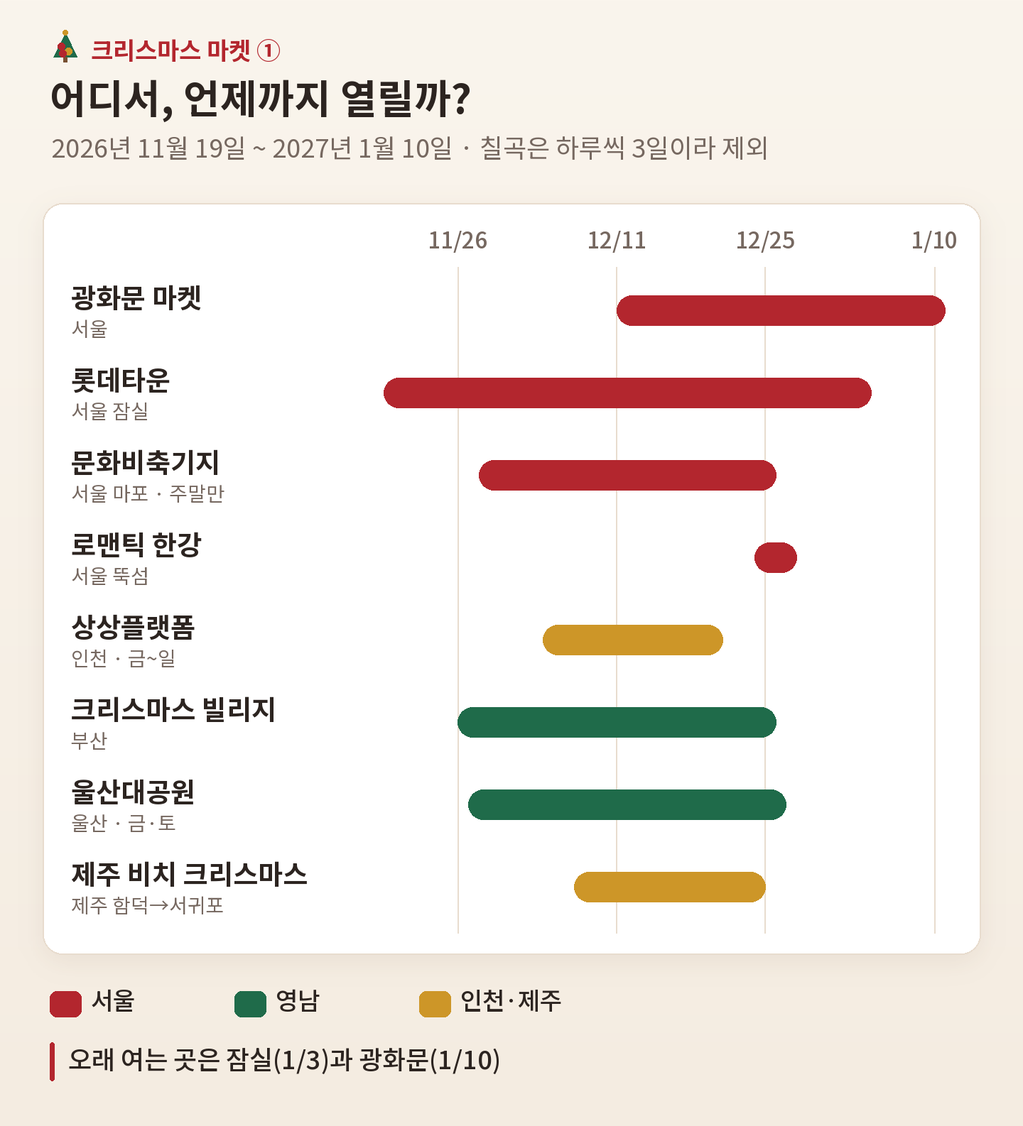
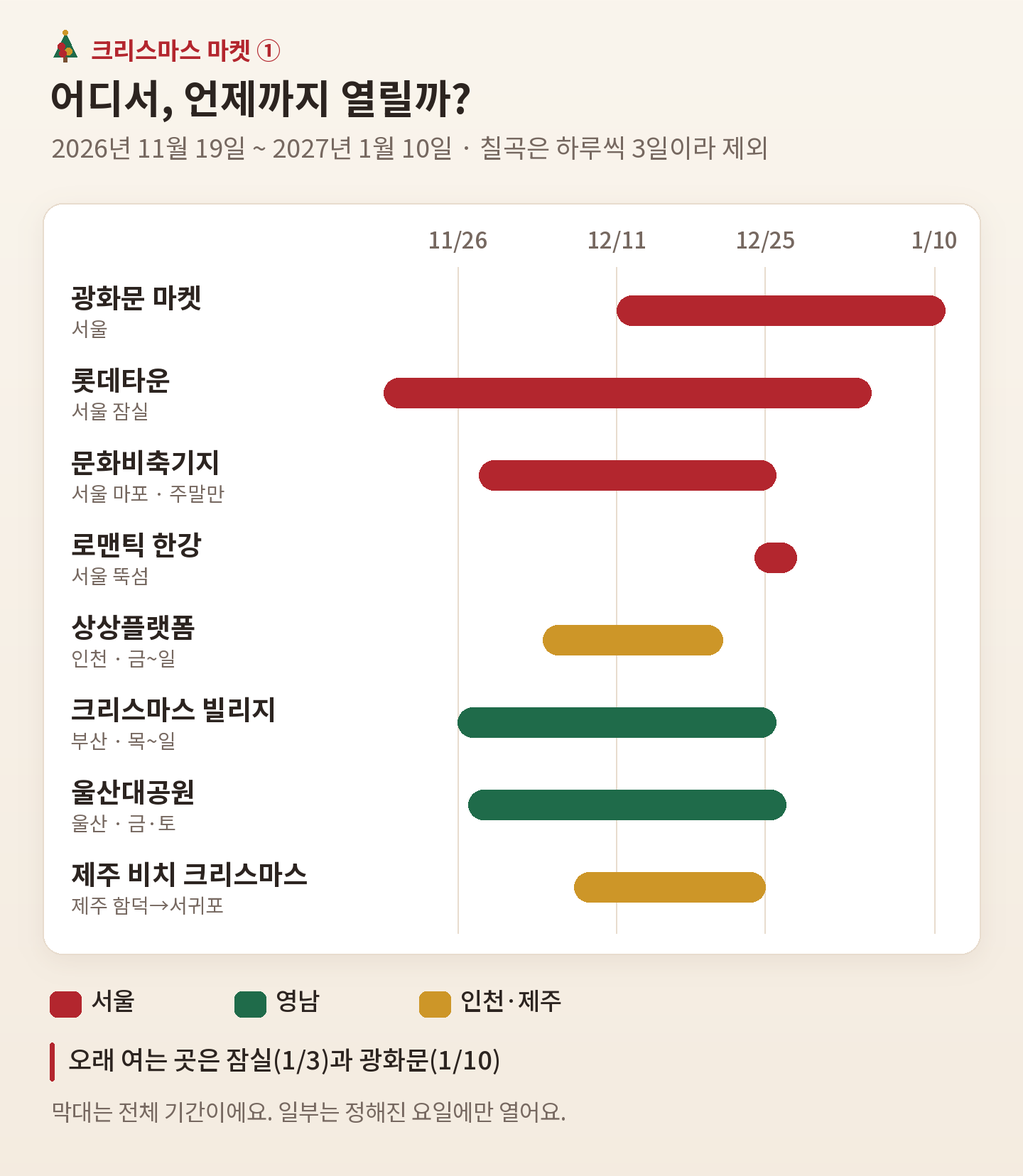
네이버 뮤지컬 좌석 예매 글 작성, 크리스마스 마켓 글 검수 반영
- 뮤지컬: 좌석 등급·예매 순서·취소 수수료·문화비 소득공제·공연법 암표 금지, 이미지 4장(타이틀 요청 중)
- 크리스마스 마켓: 인천 입장료(공식), 부산 목~일·12.21~25, 울산 18~22시, 잠실 무료 예약, 그림 02·04 수정

Changed region(s): [[0.0312, 0.2472, 0.9688, 0.9578], [0.0312, 0.0309, 0.9375, 0.2163], [0.375, 0.2472, 0.9375, 0.5252]]

diff --git a/문서/네이버-코딩가이드/20261126_뮤지컬-좌석-예매/index.html b/문서/네이버-코딩가이드/20261126_뮤지컬-좌석-예매/index.html
@@ -1,0 +1,100 @@
+<meta charset="utf-8">
+<!--
+[발행 메모]
+블로그: 네이버 코딩가이드
+카테고리: 여행·취미·문화
+글 제목: 연말 뮤지컬 좌석 고르는 법, 예매부터 취소 수수료까지
+태그: #뮤지컬예매 #뮤지컬좌석 #공연예매 #티켓팅 #취소표 #취소수수료 #연말공연 #뮤지컬 #문화비소득공제 #암표
+검색 설명: 연말 뮤지컬과 공연을 예매할 때 알아 둘 것을 정리했습니다. 대극장 좌석 등급(VIP·R·S·A)과 층별 차이, 선예매와 일반 예매, 취소표가 나오는 때, 관람일이 가까울수록 커지는 취소 수수료, 문화비 소득공제와 암표 처벌까지 담았습니다.
+글자 수: 본문 공백 포함 1,777자 / 공백 제외 1,363자
+계기: 겨울 대극장 대작 공연 기사(11.26)와 다음 공연 분야 검색어 상위(연말 콘서트·뮤지컬). 사용자가 추천 5개 중 5번을 고름.
+
+[이미지 순서]
+디자인: 어두운 공연장 그라데이션 바탕(#1c1822→#281e2c) · 흰 글자 · 와인(#b03450)·장미(#dc788c)·금빛 조명(#e8be60)·하늘(#82aad2) · 어두운 보라 카드, 머리에 금빛 가면 아이콘 + '공연 예매 ①~③', 아래 한 줄은 금빛 세로 띠 메모. 형식: 세로 좌석 배치 개념도, 가로 다섯 단계 카드, 가로 수수료 막대. 스크립트 scratchpad/tgs/musical.py.
+- 01-타이틀.png (ChatGPT, 1080×1080) — 표지
+- 02-대극장-좌석-등급.png (AI, 세로 1080×1538) — 층·위치에 따라 등급이 나뉘는 흔한 배치(개념도)
+- 03-예매가-열리는-순서.png (AI, 가로 1440×894) — 오픈 공지부터 취소표까지 다섯 단계
+- 04-취소-수수료.png (AI, 가로 1440×1182) — 관람일이 가까울수록 커지는 취소 수수료(한 예매처 예)
+- 05-함께-보면-좋은-글.png (AI 배너, 1600×234)
+
+[근거] (2026.11.26 확인)
+- 공연법(국가법령정보센터 현행 원문): 제4조의2 입장권등 부정구매(보안조치를 우회하는 등 공정한 구입 과정을 우회·방해해 재판매 목적으로 구매)·부정판매(판매자 동의 없이 상습 또는 영업으로 산 값보다 비싸게 판매·알선) 금지(전문개정 2026.2.27), 제41조 1년 이하 징역 또는 1천만 원 이하 벌금, 제37조의2 신고 포상금(예산 범위, 대통령령).
+- 취소 수수료: 예스24 티켓 공연 상품 페이지의 일반 취소 규정(예매 후 7일 이내 없음 / 예매 후 8일~관람일 10일 전 장당 4,000원(티켓 금액의 10% 이내) / 관람일 9~7일 전 10% / 6~3일 전 20% / 2일 전~취소 마감 30%, 예매 후 7일 이내라도 관람일 10일 이내면 해당 수수료, 예매수수료는 예매 당일 밤 12시 전 취소 때만 환불). '상품에 따라 다를 수 있다'는 단서도 원문에 있음 — 본문에 '한 예매처의 예'로 씀.
+- 문화비 소득공제: 조세특례제한법 제126조의2(앞선 카드 소득공제 글에서 원문 확인) — 총급여 7천만 원 이하, 도서·공연 등 문화비 공제율 30%. 상품마다 대상이 아닐 수 있음(예스24 상품 페이지에 '문화비 소득공제 제외 상품' 표기가 있는 예).
+- 겨울 대작 공연(오페라의 유령 40주년 등)은 11.26 기사 기준 '~다고 합니다'. 특정 공연장 좌석 수·등급 배치는 공연마다 달라 쓰지 않고, 좌석 등급의 일반적인 경향·취소표가 나오는 때·선예매는 일반 지식으로 '보통·알려져 있다'로 씀.
+- 함께 보면 좋은 글: 2026 서울윈터페스티벌(네이버 코딩가이드 · 여행·취미·문화 · 2026.11.26), 연말정산 미리보기 12월 18일 전에 볼 세 가지(네이버 코딩가이드 · 경제·투자 · 2026.11.24).
+-->
+
+<p style="font-size:16px;">티켓 오픈 시각, 새로고침, 그리고 '이미 선택된 좌석입니다'.<br>연말 공연 예매는 좌석보다 순서를 먼저 알아야 합니다.</p>
+
+<p style="font-size:16px;color:#e60000;font-weight:bold;">[[ 이미지: 타이틀 (01-타이틀.png) ]]</p>
+
+<p>&nbsp;</p>
+<h3 style="font-size:18px;margin:24px 0 8px;color:#8a1f35;">♪ 한 줄로 말하면</h3>
+<p style="font-size:16px;">• 비싼 등급이 늘 잘 보이는 자리는 아닙니다. 공연마다 등급 배치가 다릅니다.</p>
+<p style="font-size:16px;">• 놓친 좌석은 취소표로 다시 나올 수 있습니다.</p>
+<p style="font-size:16px;">• 관람일이 10일 안으로 들어오면 취소 수수료가 커집니다.</p>
+<p>&nbsp;</p>
+<table style="width:100%;border-collapse:collapse;"><tr><td style="background:#f4eef0;padding:12px 16px;font-size:15px;color:#555555;">좌석 등급과 취소 규정은 공연과 예매처마다 다릅니다.<br>예매 전에 그 공연의 상세 안내와 취소 규정을 꼭 확인하세요.</td></tr></table>
+
+<p>&nbsp;</p>
+<hr style="border:none;border-top:1px solid #cfcfcf;margin:8px 0;">
+<h2 style="font-size:24px;margin:40px 0 12px;">좌석 등급, 비싸면 더 잘 보일까?</h2>
+<p style="font-size:16px;">대극장 뮤지컬은 보통 VIP·R·S·A석으로 나뉩니다.<br>1층 가운데가 VIP, 위층과 양쪽 끝으로 갈수록 등급이 내려가는 구성이 많습니다.</p>
+
+<p style="font-size:16px;color:#e60000;font-weight:bold;">[[ 이미지: 대극장 좌석 등급 (02-대극장-좌석-등급.png) ]]</p>
+
+<p style="font-size:16px;">다만 가격이 곧 보기 좋은 자리는 아닙니다.<br>1층 맨 앞줄은 무대를 올려다봐야 해서 오히려 불편하다는 사람도 많습니다.</p>
+<p style="font-size:16px;">2층 앞쪽은 무대 전체 동선이 한눈에 들어와 군무가 많은 작품에서 좋다는 평이 있습니다.<br>배우 표정을 가까이 보고 싶다면 1층, 무대 그림 전체를 보고 싶다면 2층 앞쪽입니다.</p>
+
+<p>&nbsp;</p>
+<h3 style="font-size:18px;margin:24px 0 8px;">♪ '시야 제한석'은 무엇일까?</h3>
+<p style="font-size:16px;">기둥이나 난간, 무대 장치 때문에 무대 일부가 가려지는 자리입니다.<br>값이 싼 대신 어떤 부분이 안 보이는지 예매 화면에 표시되는 경우가 많습니다.<br>안내 문구를 읽고 고르면 가성비 좋은 선택이 될 수 있습니다.</p>
+
+<p>&nbsp;</p>
+<hr style="border:none;border-top:1px solid #cfcfcf;margin:8px 0;">
+<h2 style="font-size:24px;margin:40px 0 12px;">예매는 어떤 순서로 열릴까?</h2>
+
+<p style="font-size:16px;color:#e60000;font-weight:bold;">[[ 이미지: 예매가 열리는 순서 (03-예매가-열리는-순서.png) ]]</p>
+
+<p style="font-size:16px;">인기 공연은 보통 일반 예매 전에 '선예매'가 먼저 열립니다.<br>예매처 유료 회원이나 제휴 카드, 공연 팬클럽에 먼저 기회를 주는 방식입니다.</p>
+<p style="font-size:16px;">일반 예매는 회차를 나눠 여는 경우가 많습니다.<br>오픈 공지에 어느 날짜 공연이 열리는지 적혀 있으니 그날만 노리면 됩니다.</p>
+
+<p>&nbsp;</p>
+<h3 style="font-size:18px;margin:24px 0 8px;">♪ 놓쳤다면 취소표를 노리자</h3>
+<p style="font-size:16px;">무통장 입금으로 예매한 사람이 기한 안에 돈을 넣지 않으면 그 좌석이 다시 풀립니다.<br>그래서 입금 마감 시각 바로 뒤에 취소표가 나온다고 알려져 있습니다.</p>
+<p style="font-size:16px;">관람일 10일 전, 취소 수수료가 커지기 전에 표를 내놓는 사람도 있습니다.<br>그 무렵 예매 화면을 한 번 더 확인해 보세요.</p>
+
+<p>&nbsp;</p>
+<hr style="border:none;border-top:1px solid #cfcfcf;margin:8px 0;">
+<h2 style="font-size:24px;margin:40px 0 12px;">취소하면 얼마를 떼일까?</h2>
+<p style="font-size:16px;">한 예매처의 일반 취소 규정을 예로 들면 다음과 같습니다.</p>
+
+<p style="font-size:16px;color:#e60000;font-weight:bold;">[[ 이미지: 취소 수수료 (04-취소-수수료.png) ]]</p>
+
+<p style="font-size:16px;">예매 후 7일 안이라도 관람일이 10일 안으로 남았다면 수수료가 붙습니다.<br>예매할 때 낸 예매 수수료는 예매 당일 밤 12시 전에 취소해야 돌려받습니다.</p>
+<p style="font-size:16px;">공연마다 따로 정한 규정이 있으면 그것이 먼저입니다.<br>결제 전에 상품 페이지의 취소 안내를 한 번 읽어 두세요.</p>
+
+<p>&nbsp;</p>
+<hr style="border:none;border-top:1px solid #cfcfcf;margin:8px 0;">
+<h2 style="font-size:24px;margin:40px 0 12px;">알아 두면 돈이 되는 두 가지</h2>
+
+<h3 style="font-size:18px;margin:24px 0 8px;">♪ 공연 티켓도 소득공제가 된다</h3>
+<p style="font-size:16px;">총급여 7천만 원 이하 직장인은 공연 티켓 값을 문화비 소득공제로 받을 수 있습니다.<br>공제율은 30%로, 신용카드(15%)보다 높습니다.</p>
+<p style="font-size:16px;">다만 모든 상품이 대상은 아닙니다.<br>상품 페이지에 '문화비 소득공제 제외'라고 적힌 경우도 있으니 확인하세요.</p>
+
+<p>&nbsp;</p>
+<h3 style="font-size:18px;margin:24px 0 8px;">♪ 웃돈 붙은 표는 사지 않는다</h3>
+<p style="font-size:16px;">공연법은 매크로처럼 정상적인 구매 과정을 우회해 되팔 목적으로 표를 사는 것을 금지합니다.<br>산 값보다 비싸게 상습적으로 되파는 것도 금지합니다.</p>
+<p style="font-size:16px;">어기면 1년 이하 징역이나 1천만 원 이하 벌금을 받을 수 있습니다.<br>웃돈 거래는 사기 피해로 이어지기도 하니, 공식 예매처와 취소표를 이용하세요.</p>
+
+<p>&nbsp;</p>
+<hr style="border:none;border-top:1px solid #cfcfcf;margin:8px 0;">
+<h2 style="font-size:24px;margin:40px 0 12px;">티켓 오픈 전날 밤에 해 둘 일</h2>
+<p style="font-size:16px;">예매처 로그인과 결제 수단을 미리 저장해 둡니다.<br>원하는 날짜를 두세 개, 등급을 두 개쯤 정해 두면 고르는 시간이 줄어듭니다.</p>
+<p style="font-size:16px;">놓치더라도 끝이 아닙니다.<br>입금 마감 뒤와 관람 10일 전, 두 번의 기회가 더 있습니다.</p>
+
+<p style="font-size:16px;color:#e60000;font-weight:bold;">[[ 이미지: 함께 보면 좋은 글 (05-함께-보면-좋은-글.png) ]]</p>
+
+<p style="font-size:16px;">2026 서울윈터페스티벌, 장소별로 언제 무엇을 할까? (네이버 코딩가이드 · 여행·취미·문화 · 2026.11.26 작성 · 링크 자리)</p>
+<p style="font-size:16px;">연말정산 미리보기, 12월 18일 전에 볼 세 가지 (네이버 코딩가이드 · 경제·투자 · 2026.11.24 작성 · 링크 자리)</p>

diff --git a/문서/네이버-코딩가이드/20261126_전국-크리스마스마켓/index.html b/문서/네이버-코딩가이드/20261126_전국-크리스마스마켓/index.html
@@ -6,7 +6,7 @@
 글 제목: 전국 크리스마스 마켓 모음, 12월 주말 어디로 갈까?
 태그: #크리스마스마켓 #크리스마스마켓2026 #롯데타운크리스마스마켓 #광화문마켓 #크리스마스빌리지부산 #울산크리스마스마켓 #제주비치크리스마스 #12월가볼만한곳 #크리스마스데이트 #아이와가볼만한곳
 검색 설명: 2026년 12월 전국 크리스마스 마켓을 모았습니다. 서울 광화문 마켓·잠실 롯데타운·문화비축기지·뚝섬, 인천 상상플랫폼, 부산 크리스마스 빌리지, 울산대공원, 칠곡, 제주 함덕·서귀포까지 기간과 운영 요일, 입장료·예약 방식을 정리하고 12월 주말별로 갈 수 있는 곳을 표로 묶었습니다.
-글자 수: 본문 공백 포함 2,330자 / 공백 제외 1,850자
+글자 수: 본문 공백 포함 2,581자 / 공백 제외 2,058자
 계기: 사용자가 11.26 '요즘 관심 많을 이벤트·축제' 제안 중 3번 주제를 골라 요청.
 
 [이미지 순서]
@@ -26,6 +26,7 @@
 - 울산 크리스마스 마켓: 울산대공원 정문 풍차 일원, 11.27~12.26 금·토 운영(울산MBC), 크리스마스 주간 운영일 늘림(트래비), 울산문화관광재단, 부스·푸드트럭 48개 — 기사 3건. 시간·입장료 미확인.
 - 럭키칠곡 크리스마스 마켓: 왜관역 광장 일대, 마켓 12.5·25·26, 12.5 오후 6시 점등 — 기사 1건.
 - 2026 제주 비치 크리스마스: 함덕해수욕장 12.7~16(12:00~20:00), 서귀포 자구리문화예술공원 12.17~24(14:00~21:00) — 기사 3건(시간은 1~2건). 입장료 미확인.
+- 외부 검수(11.26) 대조 결과: 반영 — 인천 입장료(공식 누리집 ohslowmarket.com/tickets: 일반 10,000원, 얼리버드 5,000원 11.2~30, 초등 이하 무료, 1일 자유입장권, 11:00~19:00, 회차 12.4~6·11~13·18~20), 부산 운영일 매주 목~일 + 12.21~25(문화일보 11.25, 예스24의 '평일'은 목·금), 울산 금·토 18~22시·12.23~26 수~토(울산시 보도자료 기사·경향신문), 잠실 일반 입장권은 무료 사전 예약 방식(비즈워치·미디어펜·브릿지경제), 그림 02에 '막대는 전체 기간' 문구, 그림 04 재분류(입장료 있음: 부산·인천 / 무료 예약+유료 빠른 입장: 잠실 / 안내 못 찾음: 광화문·마포·뚝섬·울산·칠곡·제주). 반영 안 함 — 칠곡 12.24 추가(찾은 자료는 12.5·25·26뿐), 광화문 '무료'(공식 문구 없음), 뚝섬 14~21시·한강플플(2025년 정보), '총 21일'이라는 표현(공식 문구 없음, 계산상은 21일).
 - 쓰지 않은 것: 성북 유러피언 크리스마스 마켓(2026 일정 기사 없음), 오산(11월에 끝남·이름이 다름), 대구·경주 크리스마스 페어(박람회 성격, 현장 유료). 백화점 실내 마켓은 날짜 미확인이라 뺌.
 - 요일은 직접 계산(2026.12.5 토, 12.12 토, 12.19 토, 12.24 목, 12.25 금, 12.26 토).
 - 함께 보면 좋은 글: 2026 서울윈터페스티벌 장소별 정리(네이버 코딩가이드 · 여행·취미·문화 · 2026.11.26), 성심당 매장별 영업시간(네이버 코딩가이드 · 여행·취미·문화 · 2026.11.25).
@@ -38,7 +39,7 @@
 <p>&nbsp;</p>
 <h3 style="font-size:18px;margin:24px 0 8px;color:#b3262e;">☆ 한 줄로 말하면</h3>
 <p style="font-size:16px;">• 가장 오래 여는 곳은 잠실 롯데타운(1월 3일까지)과 광화문 마켓(1월 10일까지)입니다.</p>
-<p style="font-size:16px;">• 부산 크리스마스 빌리지는 올해부터 유료 입장이고 예매가 필요합니다.</p>
+<p style="font-size:16px;">• 부산 크리스마스 빌리지와 인천 빈티지 마켓은 입장료가 있습니다.</p>
 <p style="font-size:16px;">• 주말에만 여는 곳이 많아 날짜부터 맞춰 보는 것이 먼저입니다.</p>
 <p>&nbsp;</p>
 <table style="width:100%;border-collapse:collapse;"><tr><td style="background:#f6efe6;padding:12px 16px;font-size:15px;color:#555555;">운영 시간과 입장 방식은 바뀔 수 있습니다.<br>가기 전에 각 행사의 공식 안내나 예매 화면을 한 번 더 확인하세요.</td></tr></table>
@@ -58,7 +59,7 @@
 <p>&nbsp;</p>
 <h3 style="font-size:18px;margin:24px 0 8px;">☆ 서울 잠실 롯데타운 크리스마스 마켓</h3>
 <p style="font-size:16px;">롯데월드타워 앞 월드파크 잔디광장에서 11월 19일부터 1월 3일까지 열립니다.<br>매일 오전 11시 30분부터 밤 10시까지라고 합니다.</p>
-<p style="font-size:16px;">19세기 영국 겨울 거리를 옮겨 놓은 구성으로, 큰 시계탑과 40여 개 상점, 2층 회전목마가 있다고 합니다.<br>일반 입장은 무료이고, 줄을 서지 않는 유료 '패스트패스'가 따로 있습니다.</p>
+<p style="font-size:16px;">19세기 영국 겨울 거리를 옮겨 놓은 구성으로, 큰 시계탑과 40여 개 상점, 2층 회전목마가 있다고 합니다.<br>일반 입장권은 무료지만 미리 예약하는 방식이라고 하고, 줄을 서지 않는 유료 '패스트패스'가 따로 있습니다.</p>
 
 <p>&nbsp;</p>
 <h3 style="font-size:18px;margin:24px 0 8px;">☆ 서울 문화비축기지 옥토버페스트 크리스마스 마켓</h3>
@@ -70,22 +71,24 @@
 
 <p>&nbsp;</p>
 <h3 style="font-size:18px;margin:24px 0 8px;">☆ 인천 상상플랫폼 빈티지 크리스마스 마켓</h3>
-<p style="font-size:16px;">인천 내항의 옛 곡물창고를 고친 상상플랫폼에서 12월 4일부터 20일까지 금~일요일에 열린다고 합니다.<br>빈티지 옷과 소품, 트리 장식 만들기, 재즈 공연이 있다고 합니다.</p>
+<p style="font-size:16px;">인천역 앞 상상플랫폼에서 12월 4~6일, 11~13일, 18~20일 금·토·일요일에 열립니다.<br>오전 11시부터 오후 7시까지이고, 빈티지 소품과 옷, 트리 장식 만들기, 라이브 공연이 있습니다.</p>
+<p style="font-size:16px;">공식 안내로는 입장료가 1인 10,000원이고, 11월 30일까지 얼리버드로 사면 5,000원입니다.<br>초등학생 이하는 무료이고, 입장권은 운영일 가운데 하루를 골라 쓰는 방식입니다.</p>
 
 <p>&nbsp;</p>
 <h3 style="font-size:18px;margin:24px 0 8px;">☆ 부산 크리스마스 빌리지</h3>
-<p style="font-size:16px;">해운대 영화의전당 야외광장에서 11월 26일부터 12월 25일까지 열립니다.<br>지난해 약 45만 명이 찾았는데, 올해부터 날짜·시간대를 골라 예매하는 유료 입장으로 바뀌었다고 합니다.</p>
+<p style="font-size:16px;">해운대 영화의전당 야외광장에서 11월 26일부터 12월 25일까지 열립니다.<br>매일 여는 것은 아니고, 매주 목~일요일과 12월 21~25일에 연다고 합니다.</p>
+<p style="font-size:16px;">지난해 약 45만 명이 찾았는데, 올해부터 유료 입장으로 바뀌었다고 합니다.</p>
 <p style="font-size:16px;">예스24 판매 화면 기준 입장료는 아래와 같습니다.</p>
 <p style="font-size:16px;">• 평일(오후 4~10시) 5,900원</p>
 <p style="font-size:16px;">• 주말 주간(오전 11시~밤 10시) 5,900원</p>
 <p style="font-size:16px;">• 주말 야간(오후 4~10시) 7,900원</p>
 <p style="font-size:16px;">• 크리스마스 시즌(오전 11시~밤 10시) 14,900원</p>
 <p>&nbsp;</p>
-<p style="font-size:16px;">모바일 티켓이고, 판매는 가는 날 하루 전 밤 11시 59분에 마감됩니다.<br>문을 여는 요일은 예매 화면에서 고를 수 있는 날짜로 확인하세요.</p>
+<p style="font-size:16px;">여기서 평일은 목·금요일입니다.<br>모바일 티켓이고, 판매는 가는 날 하루 전 밤 11시 59분에 마감됩니다.</p>
 
 <p>&nbsp;</p>
 <h3 style="font-size:18px;margin:24px 0 8px;">☆ 울산·칠곡 크리스마스 마켓</h3>
-<p style="font-size:16px;">울산대공원 정문 풍차 일대에서는 11월 27일부터 12월 26일까지 금·토요일에 열린다고 합니다.<br>크리스마스 주간에는 여는 날을 늘린다고 합니다.</p>
+<p style="font-size:16px;">울산대공원 정문 풍차 일대에서는 11월 27일부터 12월 26일까지 매주 금·토요일 오후 6~10시에 열린다고 합니다.<br>크리스마스 주간에는 12월 23~26일(수~토)로 여는 날을 늘린다고 합니다.</p>
 <p style="font-size:16px;">경북 칠곡 왜관역 광장 일대에서는 12월 5일, 25일, 26일에 마켓이 선다고 합니다.<br>5일 저녁 6시에는 트리 점등식이 있다고 합니다.</p>
 
 <p>&nbsp;</p>
@@ -108,7 +111,8 @@
 
 <p style="font-size:16px;color:#e60000;font-weight:bold;">[[ 이미지: 입장 방식 (04-입장-방식.png) ]]</p>
 
-<p style="font-size:16px;">미리 예매해야 하는 곳은 부산 크리스마스 빌리지입니다.<br>잠실은 무료로 들어갈 수 있지만, 주말 저녁에는 줄이 길 수 있습니다.</p>
+<p style="font-size:16px;">입장료가 있는 곳은 부산 크리스마스 빌리지와 인천 빈티지 마켓입니다.<br>인천은 11월 30일까지 사면 반값이라 일정이 정해졌다면 미리 사 두는 편이 낫습니다.</p>
+<p style="font-size:16px;">잠실은 일반 입장권이 무료지만 미리 예약하는 방식이라고 합니다.<br>예약이 일찍 차는 편이라 주말에 갈 생각이면 서두르세요.</p>
 <p style="font-size:16px;">나머지는 입장료 안내를 따로 찾지 못했습니다.<br>마켓 안에서 사는 음식과 소품 값은 어디든 따로 듭니다.</p>
 
 <p>&nbsp;</p>

diff --git a/AGENTS.md b/AGENTS.md
@@ -263,9 +263,13 @@
 - 히스토리 가이드 후보(2026-11-15 제안, 4번 수능의 역사는 작성함): 한지 유네스코 등재(최종 결정 11.30~12.5 정부간위원회) / 김장 문화의 역사(김장철) / 단종과 영월 청령포('왕과 사는 남자' 흥행) / 순국선열의 날.
 
 ## 진행 상황 (2026-11-26 기준)
+- 2026-11-26: `문서/네이버-코딩가이드/20261126_뮤지컬-좌석-예매/index.html` 작성("연말 뮤지컬 좌석 고르는 법, 예매부터 취소 수수료까지", 카테고리 여행·취미·문화). 추천 5개 중 5번.
+  - 근거: 공연법 현행 원문(국가법령정보센터, 제4조의2 부정구매·부정판매 금지 2026.2.27 전문개정, 제41조 1년 이하 징역·1천만 원 이하 벌금, 제37조의2 신고 포상금), 예스24 공연 상품 페이지의 일반 취소 규정(한 예매처 예로 밝힘), 조특법 제126조의2 문화비 공제(앞선 글에서 확인). 좌석 등급 배치·취소표 시점·선예매는 일반적인 경향이라 '보통·많다·알려져 있다'로 쓰고 특정 공연장 좌석 수는 쓰지 않음.
+  - 이미지 5장: AI 02 대극장 좌석 등급(세로 개념도)·03 예매가 열리는 순서(가로 다섯 단계)·04 취소 수수료(가로 막대)·05 이 글 배너(와인 원 안 금빛 가면) — 어두운 공연장 바탕·와인·장미·금빛·하늘, 머리에 가면 아이콘 + '공연 예매 ①~③', 스크립트 scratchpad/tgs/musical.py. h3 기호 ♪, '한 줄로 말하면'만 와인. 링크는 서울윈터페스티벌(네이버 · 여행·취미·문화 · 11.26)·연말정산 미리보기(네이버 · 경제·투자 · 11.24). ChatGPT 01 타이틀('연말 뮤지컬 예매 / 좌석 고르는 법') 요청 중.
 - 2026-11-26: `문서/네이버-코딩가이드/20261126_전국-크리스마스마켓/index.html` 작성("전국 크리스마스 마켓 모음, 12월 주말 어디로 갈까?", 카테고리 여행·취미·문화, 공백 포함 2,330자). 사용자가 '이벤트·축제' 제안 중 3번 주제를 골라 요청.
   - 근거: 서브에이전트로 11.19~26 기사(다음 뉴스)를 모아 마켓별로 확인 수준을 나누고, 부산은 예스24 판매 페이지 원문으로 가격·시간대를 직접 확인, 광화문은 서울윈터페스티벌 누리집·서울시 기사. 기사 1건뿐인 곳(인천·칠곡)과 기사로만 확인한 곳은 '~다고 합니다'로, 확인 못 한 입장료·운영 시간은 쓰지 않음(롯데 패스트패스 가격, 뚝섬 시간). 2026 일정 기사가 없는 성북·이미 끝난 오산·박람회 성격의 대구·경주 페어는 뺌. 부산 운영 요일(월~수 휴무 여부)은 공식 문구가 없어 '예매 화면 날짜로 확인'. **여러 지역 행사 모음 글은 행사마다 확인 수준(공식/여러 기사/기사 1건)을 메모에 남기고 본문 어미를 그에 맞춘다. 주말별 표는 요일을 직접 계산해 '이틀 모두/하루만/닫힘'으로 나눈다.**
   - 이미지 5장: AI 02 지역별 기간(가로 간트, 서울 빨강·영남 초록·인천·제주 금빛)·03 주말별로 갈 수 있는 곳(세로 점 표, 24·25일 열 강조)·04 입장 방식(가로 세 칸)·05 이 글 배너(빨간 원 안 트리) — 크림 바탕·빨강·초록·금빛, 머리에 트리 아이콘 + '크리스마스 마켓 ①~③', 스크립트 scratchpad/tgs/xmas.py. h3 기호 ☆, '한 줄로 말하면'만 빨강. 링크는 서울윈터페스티벌(네이버 · 여행·취미·문화 · 11.26)·성심당(네이버 · 여행·취미·문화 · 11.25). ChatGPT 01 타이틀('전국 크리스마스 마켓 / 12월 주말 어디로?') 적용(해 질 녘 마켓 노점·트리·뱅쇼 머그·진저브레드, 글자 정확, 로고·간판 없음, 첫 줄 약 88%라 94%로 줄이고 살짝 키운 흐린 같은 그림 위에 70px로 섞음 → 약 83%, 원본 scratchpad/backup/xmas-01-original.png). 대기 중인 이미지 요청 없음.
+  - 같은 날 외부 검수 반영(서브에이전트 두 번 + 공식 누리집 직접 확인): 인천 입장료 10,000원·얼리버드 5,000원(11.30까지)·초등 이하 무료·11~19시(공식 누리집), 부산 목~일 + 12.21~25, 울산 금·토 18~22시·12.23~26 수~토, 잠실 무료 입장권 사전 예약, 그림 02 '막대는 전체 기간' 문구·04 재분류. 칠곡 12.24·광화문 '무료'·뚝섬 14~21시는 2026 자료로 확인되지 않아 반영하지 않음. **검수가 준 숫자가 지난해 자료일 수 있으니 올해 공식 페이지·올해 기사로 다시 확인한다(뚝섬 14~21시는 2025년 정보였다).**
 - 2026-11-26: `문서/네이버-코딩가이드/20261126_서울윈터페스티벌/index.html` 작성("2026 서울윈터페스티벌, 장소별로 언제 무엇을 할까?", 카테고리 여행·취미·문화, 공백 포함 2,334자). 사용자가 '요즘 관심 많을 이벤트·축제' 제안 4개 중 1번을 고름(계기: 11.25 서울시 발표).
   - 근거: **서울윈터페스티벌 공식 누리집(winterfestival.co.kr) 세부 축제·특별프로그램·개막식·행사소식 페이지 원문**(내장 브라우저로 열림) — 장소별 기간·운영 시간, 스케이트장 1,000원(대여 포함), DDP 세 단계(운영 시간 '예정'), 한강 나이트 사우나 12.24~31 청담대교 하부(신청 추후 오픈), 개막식 12.11 → 12.12 변경 공지(11.5). 개막식 오후 6시·지난해 1,098만 명·해치 카운트다운은 서울시 발표를 전한 보도. 청계광장 미디어월 전시는 주최 언론사 이름 없이 '~다고 합니다'. 누리집에 요금이 적힌 것은 스케이트장뿐이라 나머지를 무료라고 단정하지 않음. **축제 정리 글은 기사보다 축제 공식 누리집의 프로그램 페이지를 먼저 읽고, '예정'·'추후 오픈' 표기는 그대로 옮긴다.**
   - 이미지 5장: AI 02 장소별 기간(가로 간트 막대)·03 날짜가 정해진 행사(세로 연표)·04 하루 저녁 동선(걸어서 세 곳 / 지하철 두 곳 카드 — 처음 그린 노드 연결 개념도는 선이 이름과 겹쳐 카드형으로 바꿈)·05 이 글 배너(남색 원 안 금빛 눈송이) — 겨울밤 남색 그라데이션·별 점·장소별 색, 머리에 눈송이 + '서울윈터페스티벌 ①~③', 스크립트 scratchpad/tgs/winter.py. h3 기호 ▸, '한 줄로 말하면'만 파랑. 안내 상자(연한 하늘빛 배경, 일정 변동·공식 누리집 확인)는 요약 목록 바로 뒤. 링크는 11월 마감 서울 전시(네이버 · 여행·취미·문화 · 11.17)·성심당 매장(네이버 · 여행·취미·문화 · 11.25). ChatGPT 01 타이틀('서울윈터페스티벌 / 장소별 총정리') 적용(눈 내리는 밤 트리·한지 등불 물길·흐린 빌딩, 글자 정확, 로고·간판 없음, 사람은 작은 실루엣). 첫 줄 약 88%라 처음엔 91%로 줄여 흐린 원본(40px 경계)에 섞었더니 밝은 그림이라 액자처럼 보여, 94%로 줄이고 바깥을 같은 그림을 약 9% 키워 흐린 것으로 채운 뒤 70px 곡선 경계로 섞음(약 82%, 세로 중심 약 50%, 원본 scratchpad/backup/winter-01-original.png). 이미지 5장 완료, 대기 중인 요청 없음. 남은 일은 사용자의 네이버 발행(링크 줄 교체)뿐이다. **밝고 복잡한 타이틀을 줄일 때는 바깥을 '살짝 키운 같은 그림'으로 채우고 경계를 넓고(70px) 완만하게 섞으면 액자처럼 보이지 않는다.**

diff --git a/작성히스토리.md b/작성히스토리.md
@@ -85,6 +85,8 @@
     - 2026.12.11~2027.1.31 서울윈터페스티벌을 장소별로: 광화문 미디어파사드·마켓(~1.10), 청계천 빛초롱(~1.31), 서울광장 스케이트장(12.18~2.9, 1,000원), DDP(세 단계), 뚝섬 한강 나이트 사우나(12.24~31), 날짜가 정해진 행사·신청할 것, 하루 저녁 동선 · `서울윈터페스티벌, 서울빛초롱축제, 광화문 마켓, 서울광장 스케이트장, 한강 나이트 사우나`
   - 2026.11.26 **전국 크리스마스 마켓 모음, 12월 주말 어디로 갈까?**
     - 2026년 12월 크리스마스 마켓(서울 광화문·잠실 롯데타운·문화비축기지·뚝섬, 인천 상상플랫폼, 부산 크리스마스 빌리지, 울산대공원, 칠곡, 제주 함덕·서귀포)의 기간·운영 요일·입장 방식, 12월 주말별로 갈 수 있는 곳 · `크리스마스 마켓, 롯데타운 크리스마스 마켓, 광화문 마켓, 크리스마스 빌리지 부산, 12월 가볼만한곳`
+  - 2026.11.26 **연말 뮤지컬 좌석 고르는 법, 예매부터 취소 수수료까지**
+    - 대극장 좌석 등급과 층별 차이·시야 제한석, 선예매→일반 예매→취소표가 나오는 때, 관람일에 따른 취소 수수료(한 예매처 예), 문화비 소득공제 30%, 공연법 암표 금지 · `뮤지컬 예매, 뮤지컬 좌석, 취소표, 취소 수수료, 문화비 소득공제`
 - **생활 정보**
   - 2026.11.14 **11월 19일 수능, 올해가 마지막 선택형 수능인 이유**
     - 2027 수능이 마지막 선택형인 이유, 수능 날 바뀌는 것, 2028 통합형 개편 비교 · `수능, 선택형, 2028 개편, 통합수능, 수능 날`
@@ -486,6 +488,7 @@
   - 11.23 [히스토리가이드] 뱅크시의 스텐실은 어디서 왔을까요? 동굴 손자국부터 거리의 벽까지
   - 11.26 [네이버 코딩가이드] 2026 서울윈터페스티벌, 장소별로 언제 무엇을 할까?
   - 11.26 [네이버 코딩가이드] 전국 크리스마스 마켓 모음, 12월 주말 어디로 갈까?
+  - 11.26 [네이버 코딩가이드] 연말 뮤지컬 좌석 고르는 법, 예매부터 취소 수수료까지
 - **코딩 연재·강좌**
   - 11.13 [코딩가이드] 파이썬으로 여러 엑셀 파일을 하나로 합치기 (pandas, 5분 완성)
   - 11.16 [코딩가이드] 안드로이드 개발자 인증, Play에 앱을 올린 개발자는 무엇을 해야 할까 (2027년 전 세계 적용 예정)
@@ -1702,6 +1705,15 @@
 - 검색 설명(발행 메모): 2026년 12월 전국 크리스마스 마켓을 모았습니다. 서울 광화문 마켓·잠실 롯데타운·문화비축기지·뚝섬, 인천 상상플랫폼, 부산 크리스마스 빌리지, 울산대공원, 칠곡, 제주 함덕·서귀포까지 기간과 운영 요일, 입장료·예약 방식을 정리하고 12월 주말별로 갈 수 있는 곳을 표로 묶었습니다.
 - 태그: #크리스마스마켓 #크리스마스마켓2026 #롯데타운크리스마스마켓 #광화문마켓 #크리스마스빌리지부산 #울산크리스마스마켓 #제주비치크리스마스 #12월가볼만한곳 #크리스마스데이트 #아이와가볼만한곳
 - 폴더: `문서/네이버-코딩가이드/20261126_전국-크리스마스마켓`
+- 발행 주소: (모름)
+
+#### 2026.11.26 · 연말 뮤지컬 좌석 고르는 법, 예매부터 취소 수수료까지
+- 분류: 여행·취미·문화
+- 요약: 대극장 VIP·R·S·A 흔한 배치와 '비싼 자리 = 잘 보이는 자리'가 아닌 이유(1층 앞줄, 2층 앞쪽), 시야 제한석, 선예매·일반 예매, 무통장 입금 마감 뒤·관람 10일 전 취소표, 취소 수수료(예스24 일반 규정 예: 7일 이내 없음~관람 2일 전 30%, 예매 수수료는 당일 자정 전만 환불), 문화비 소득공제(총급여 7천만 원 이하 30%, 제외 상품 있음), 공연법 제4조의2 부정구매·부정판매 금지(1년 이하 징역·1천만 원 이하 벌금)
+- 키워드: 뮤지컬 예매, 뮤지컬 좌석, 티켓팅, 취소표, 취소 수수료, 문화비 소득공제, 암표
+- 검색 설명(발행 메모): 연말 뮤지컬과 공연을 예매할 때 알아 둘 것을 정리했습니다. 대극장 좌석 등급(VIP·R·S·A)과 층별 차이, 선예매와 일반 예매, 취소표가 나오는 때, 관람일이 가까울수록 커지는 취소 수수료, 문화비 소득공제와 암표 처벌까지 담았습니다.
+- 태그: #뮤지컬예매 #뮤지컬좌석 #공연예매 #티켓팅 #취소표 #취소수수료 #연말공연 #뮤지컬 #문화비소득공제 #암표
+- 폴더: `문서/네이버-코딩가이드/20261126_뮤지컬-좌석-예매`
 - 발행 주소: (모름)
 
 ### 티스토리 코딩가이드

diff --git a/이미지요청-글.md b/이미지요청-글.md
@@ -18,4 +18,16 @@
   - **글자는 요청에 적힌 그대로**: 틀린 글자·빠진 글자·다른 글자가 없게 해 주세요.
 - 가운데가 너무 비지 않게 채워 주세요.
 
-(현재 요청 없음)
+## [네이버] 연말 뮤지컬 좌석 고르는 법, 예매부터 취소 수수료까지 — 문서/네이버-코딩가이드/20261126_뮤지컬-좌석-예매
+
+### 01-타이틀.png (타이틀, 1:1, 1080×1080)
+- 종류: 실사풍 공연장 장면(사진처럼 자연스럽게). 독자는 성인 — 내용은 쉽게, 표현은 세련되게. 귀여운 캐릭터·말풍선·반짝이 스티커·장난감 같은 3D·굵은 테두리 만화 글씨는 쓰지 않음.
+- 장면: 공연 시작 직전의 대극장. 붉은 벨벳 좌석이 층층이 이어지고, 앞쪽 객석 팔걸이 위에 휴대폰(화면에는 좌석 선택 화면처럼 보이는 색 네모 격자만, 글자 없음)과 종이 티켓 한 장. 멀리 붉은 막이 내려진 무대와 금빛 조명. 사람은 없거나 아주 작은 뒷모습만.
+- 색: 짙은 와인·벨벳 빨강·금빛 조명.
+- 글자(적힌 그대로, 2줄):
+  - 1줄: 연말 뮤지컬 예매
+  - 2줄: 좌석 고르는 법
+- 글자 규칙(1080×1080 기준 픽셀): 글자(테두리·그림자 포함)의 왼쪽 끝은 108px보다 안쪽, 오른쪽 끝은 972px보다 안쪽(한 줄 864px 이하), 위쪽 끝은 108px보다 아래, 아래쪽 끝은 972px보다 위. 글자 덩어리 전체의 위아래 중심은 540px 근처(510~570px), 좌우도 정가운데. 글자를 위·아래로 몰고 그림을 반대쪽에 두는 배치 금지. 그림은 글자 뒤에 크게, 글자가 그림 일부를 가려도 됨. 글자를 피하려고 그림을 작게 줄이지 말 것.
+- 글자 모양: 굵은 고딕, 흰색(1줄)과 금빛(2줄), 또렷한 그림자. 목록 썸네일(폭 약 200px)에서도 읽히는 크기. 작은 글씨·띠·라벨·부제 금지.
+- 금지: 테두리·액자 없음. 실제 공연 포스터·작품 로고·예매처 로고·공연장 이름을 그리지 않음. 요청한 글자 말고 다른 글자(영어 포함, 티켓 위 글자 포함)는 넣지 않음.
+
